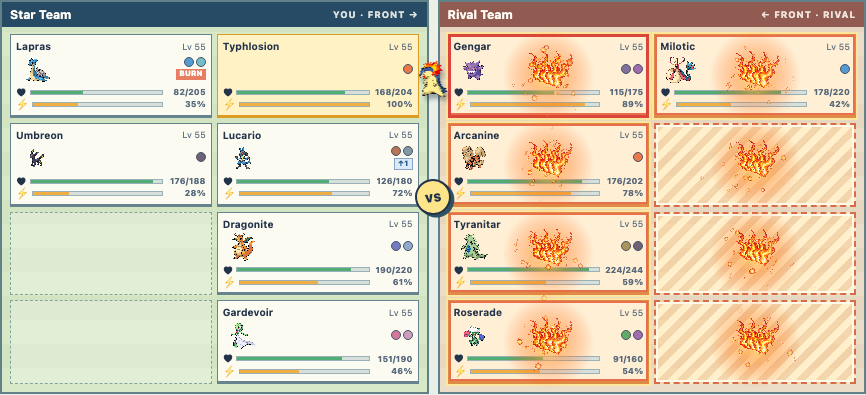
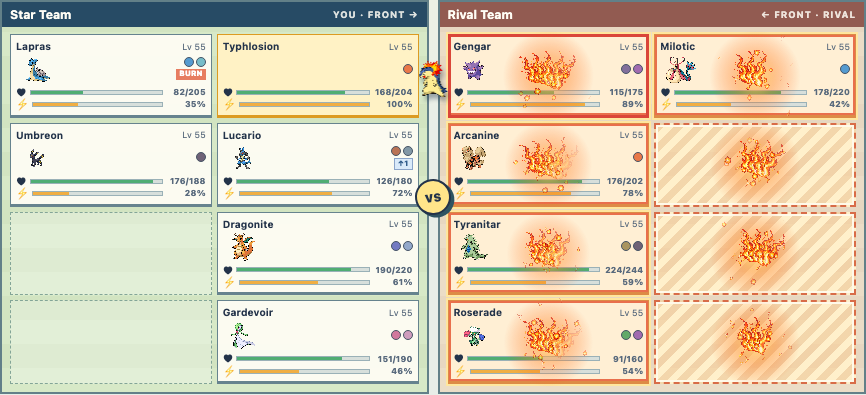
Vary Fire bloom by tile and give core a tail

diff --git a/web/src/battles/dev/FireVfxPrototype.tsx b/web/src/battles/dev/FireVfxPrototype.tsx
@@ -47,8 +47,16 @@ export const FireVfxSwitcher = ({ variant, onChange }: {
   </nav>;
 };
 
-type Tile = { x: number; y: number; radius: number };
+type Tile = { x: number; y: number; radius: number; seed: number };
 type FireTextures = { flame: HTMLImageElement; embers: HTMLImageElement[] };
+const tileSeed = (teamName: string, position: string) => {
+  // The same action/tile pair should keep its look even if the target list changes order.
+  let hash = 2166136261;
+  for (const character of `${teamName}:${position}`) {
+    hash = Math.imul(hash ^ character.charCodeAt(0), 16777619);
+  }
+  return hash >>> 0;
+};
 const random = (seed: number) => {
   const value = Math.sin(seed * 127.1 + 311.7) * 43758.5453;
   return value - Math.floor(value);
@@ -106,59 +114,75 @@ const drawEmbers = (ctx: CanvasRenderingContext2D, textures: FireTextures, tile:
 };
 
 const drawTile = (ctx: CanvasRenderingContext2D, textures: FireTextures,
-  tile: Tile, ms: number, variant: Exclude<FireVfxVariant, "original">, seed: number) => {
+  tile: Tile, ms: number, variant: Exclude<FireVfxVariant, "original">) => {
+  const seed = tile.seed;
   const image = textures.flame;
-  const time = clamp(ms / 760);
+  const offset = random(seed + 3) * 105;
+  const localMs = ms - offset;
+  if (localMs < 0) return;
+  const time = clamp(localMs / (760 - offset));
   if (variant === "bloom") {
-    drawGlow(ctx, tile, time, .7);
-    for (let index = 0; index < 6; index++) {
-      const birth = index * 27;
-      const age = (ms - birth) / 560;
+    drawGlow(ctx, tile, time, .5 + random(seed + 5) * .35);
+    const flameCount = 4 + Math.floor(random(seed + 11) * 4);
+    const spread = random(seed + 13) * Math.PI * 2;
+    for (let index = 0; index < flameCount; index++) {
+      const birth = random(seed + index * 97 + 17) * 135;
+      const life = 340 + random(seed + index * 97 + 19) * 215;
+      const age = (localMs - birth) / life;
       if (age < 0 || age > 1) continue;
-      const angle = index / 6 * Math.PI * 2 + random(seed + index) * .4;
-      const distance = tile.radius * (.08 + age * .36);
-      const size = tile.radius * (.8 + random(seed + index * 9) * .32) * (1 - age * .35);
+      const angle = spread + index / flameCount * Math.PI * 2 +
+        (random(seed + index * 97 + 23) - .5) * .65;
+      const distance = tile.radius * (.05 + age * (.2 + random(seed + index * 97 + 29) * .36));
+      const size = tile.radius * (.65 + random(seed + index * 97 + 31) * .65) * (1 - age * .35);
       drawFlame(ctx, image, tile.x + Math.cos(angle) * distance,
         tile.y + Math.sin(angle) * distance * .55 + tile.radius * .2 - age * tile.radius * .33,
-        size * .6, size, Math.cos(angle) * .32, fade(age) * .76);
+        size * .6, size, Math.cos(angle) * .4, fade(age) * (.57 + random(seed + index * 97 + 37) * .26));
     }
-    // One larger coal anchors the bloom and outlives the surrounding flame tongues.
-    const coalAge = ms / 760;
-    const coalSize = tile.radius * (.79 + random(seed + 61) * .18) * (1 - coalAge * .12);
+    // A large, tailed ember anchors each tile and outlives its surrounding flames.
+    const emberAge = localMs / (760 - offset);
+    const emberSize = tile.radius * (1.1 + random(seed + 61) * .32) * (1 - emberAge * .13);
+    const emberX = tile.x + (random(seed + 67) - .5) * tile.radius * .3;
+    const emberY = tile.y + tile.radius * .09 - emberAge * tile.radius * .14;
+    const flip = random(seed + 69) < .5 ? -1 : 1;
     ctx.save();
-    ctx.translate(tile.x + (random(seed + 67) - .5) * tile.radius * .12,
-      tile.y + tile.radius * .08 - coalAge * tile.radius * .1);
-    ctx.rotate((random(seed + 71) - .5) * .25);
-    ctx.globalAlpha = Math.min(1, coalAge * 12) * Math.pow(1 - coalAge, .45) * .95;
-    ctx.drawImage(textures.embers[0], -coalSize / 2, -coalSize / 2, coalSize, coalSize);
+    ctx.translate(emberX, emberY);
+    ctx.rotate((random(seed + 71) - .5) * .55);
+    ctx.scale(flip, 1);
+    ctx.globalAlpha = Math.min(1, emberAge * 12) * Math.pow(1 - emberAge, .42) * .95;
+    ctx.drawImage(textures.embers[1], -emberSize / 2, -emberSize / 2, emberSize, emberSize);
+    const coreSize = emberSize * .38;
+    ctx.drawImage(textures.embers[0], -coreSize / 2 - emberSize * .12,
+      -coreSize / 2 + emberSize * .13, coreSize, coreSize);
     ctx.restore();
-    drawEmbers(ctx, textures, tile, ms, 13, false, seed);
+    drawEmbers(ctx, textures, tile, localMs, 10 + Math.floor(random(seed + 73) * 7), false, seed);
   } else if (variant === "column") {
     drawGlow(ctx, { ...tile, y: tile.y + tile.radius * .25 }, time, .5);
-    for (let index = 0; index < 8; index++) {
-      const birth = index * 62;
-      const age = (ms - birth) / 450;
+    const count = 6 + Math.floor(random(seed + 11) * 4);
+    for (let index = 0; index < count; index++) {
+      const birth = index * 55 + random(seed + index * 97 + 13) * 38;
+      const age = (localMs - birth) / 450;
       if (age < 0 || age > 1) continue;
-      const sway = Math.sin(age * 6 + index * 1.8) * tile.radius * .12;
+      const sway = Math.sin(age * 6 + index * 1.8 + random(seed + 17) * 3) * tile.radius * .12;
       const size = tile.radius * (.68 + random(seed + index * 9) * .38);
       drawFlame(ctx, image, tile.x + sway + (random(seed + index * 3) - .5) * tile.radius * .35,
         tile.y + tile.radius * .42 - age * tile.radius * 1.05,
         size * .62, size, sway / tile.radius * .7, fade(age) * .75);
     }
-    drawEmbers(ctx, textures, tile, ms, 12, false, seed + 101);
+    drawEmbers(ctx, textures, tile, localMs, 12, false, seed + 101);
   } else {
-    drawGlow(ctx, tile, clamp((ms - 50) / 500), .95);
-    for (let index = 0; index < 4; index++) {
-      const birth = 70 + index * 32;
-      const age = (ms - birth) / 430;
+    drawGlow(ctx, tile, clamp((localMs - 50) / 500), .95);
+    const count = 3 + Math.floor(random(seed + 11) * 3);
+    for (let index = 0; index < count; index++) {
+      const birth = 55 + index * 32 + random(seed + index * 97 + 13) * 45;
+      const age = (localMs - birth) / 430;
       if (age < 0 || age > 1) continue;
-      const angle = (index - 1.5) * .3;
+      const angle = (index - (count - 1) / 2) * .3 + (random(seed + 17) - .5) * .35;
       const size = tile.radius * (1.05 - age * .4);
       drawFlame(ctx, image, tile.x + angle * tile.radius * .38,
         tile.y + tile.radius * .22 - age * tile.radius * .27,
         size * .66, size, angle, fade(age) * .9);
     }
-    drawEmbers(ctx, textures, tile, ms, 23, true, seed + 203);
+    drawEmbers(ctx, textures, tile, localMs, 18 + Math.floor(random(seed + 73) * 9), true, seed + 203);
   }
 };
 
@@ -198,7 +222,8 @@ export const FireVfxPrototype = ({ variant, replayKey }: {
           const rect = cell.getBoundingClientRect();
           return { x: rect.left + rect.width / 2 - boardRect.left,
             y: rect.top + rect.height / 2 - boardRect.top,
-            radius: Math.min(rect.width, rect.height) * .52 };
+            radius: Math.min(rect.width, rect.height) * .52,
+            seed: tileSeed(cell.dataset.teamName || "", cell.dataset.position || "") };
         });
     };
     const observer = new ResizeObserver(measure);
@@ -215,7 +240,7 @@ export const FireVfxPrototype = ({ variant, replayKey }: {
       const images = [textures.flame, ...textures.embers];
       if (images.every((image) => image.complete && image.naturalWidth > 0) &&
         effectMs >= 0 && effectMs <= 760) {
-        tiles.forEach((tile, index) => drawTile(ctx, textures, tile, effectMs, variant, index * 1009 + 17));
+        tiles.forEach((tile) => drawTile(ctx, textures, tile, effectMs, variant));
       }
       if (elapsed < 1500) frame = requestAnimationFrame(render);
     };

diff --git a/docs/prototypes/fire-vfx/README.md b/docs/prototypes/fire-vfx/README.md
@@ -22,10 +22,13 @@ empty tiles), and shares the move's 1.5-second playback interval. The three new
 variants use the generated transparent flame source at
 `media/vfx/experiments/fire-special-flame-source.png` and three small generated
 ember sprites (`fire-ember-coal.png`, `fire-ember-fleck.png`, and
-`fire-ember-fork.png`). The bloom has one larger central coal that lasts for the
-whole effect, while smaller embers have individually seeded birth times,
-lifetimes, directions, sizes, rotations, and sprite selections. The seed keeps
-replays visually consistent. The effect is excluded from production builds.
+`fire-ember-fork.png`). The bloom has one larger tailed ember with a bright core
+at its base that lasts for the whole effect. Smaller embers have individually
+seeded birth times, lifetimes, directions, sizes, rotations, and sprite
+selections. Each tile's seed comes from its team and position, so tiles vary even
+within the same action and replaying the story keeps each tile's appearance.
+For production, combine this tile key with the battle event's stable identity.
+The effect is excluded from production builds.
 
 The mobile layout was also checked with the column variant:
 
@@ -44,7 +47,10 @@ effect on lower-powered phones when more targets or overlapping effects are adde
 
 Pokémon Showdown is a useful choreography reference: its [animation
 renderer](https://github.com/smogon/pokemon-showdown-client/blob/master/play.pokemonshowdown.com/src/battle-animations.ts)
-places image effects at timed positions, and its [move animation
-table](https://github.com/smogon/pokemon-showdown-client/blob/master/play.pokemonshowdown.com/src/battle-animations-moves.ts)
-reuses behaviors across moves. Its [client license](https://github.com/smogon/pokemon-showdown-client#license)
+places and animates image effects at timed positions. A `fireball` is defined as
+a 64×64 image, while the [Flamethrower move
+animation](https://github.com/smogon/pokemon-showdown-client/blob/master/play.pokemonshowdown.com/src/battle-animations-moves.ts)
+launches several copies at staggered times and slightly different endpoints.
+The move table also maps other moves, including Ember, onto that choreography.
+Its [client license](https://github.com/smogon/pokemon-showdown-client#license)
 is AGPLv3, so this study uses independently generated art and code.
